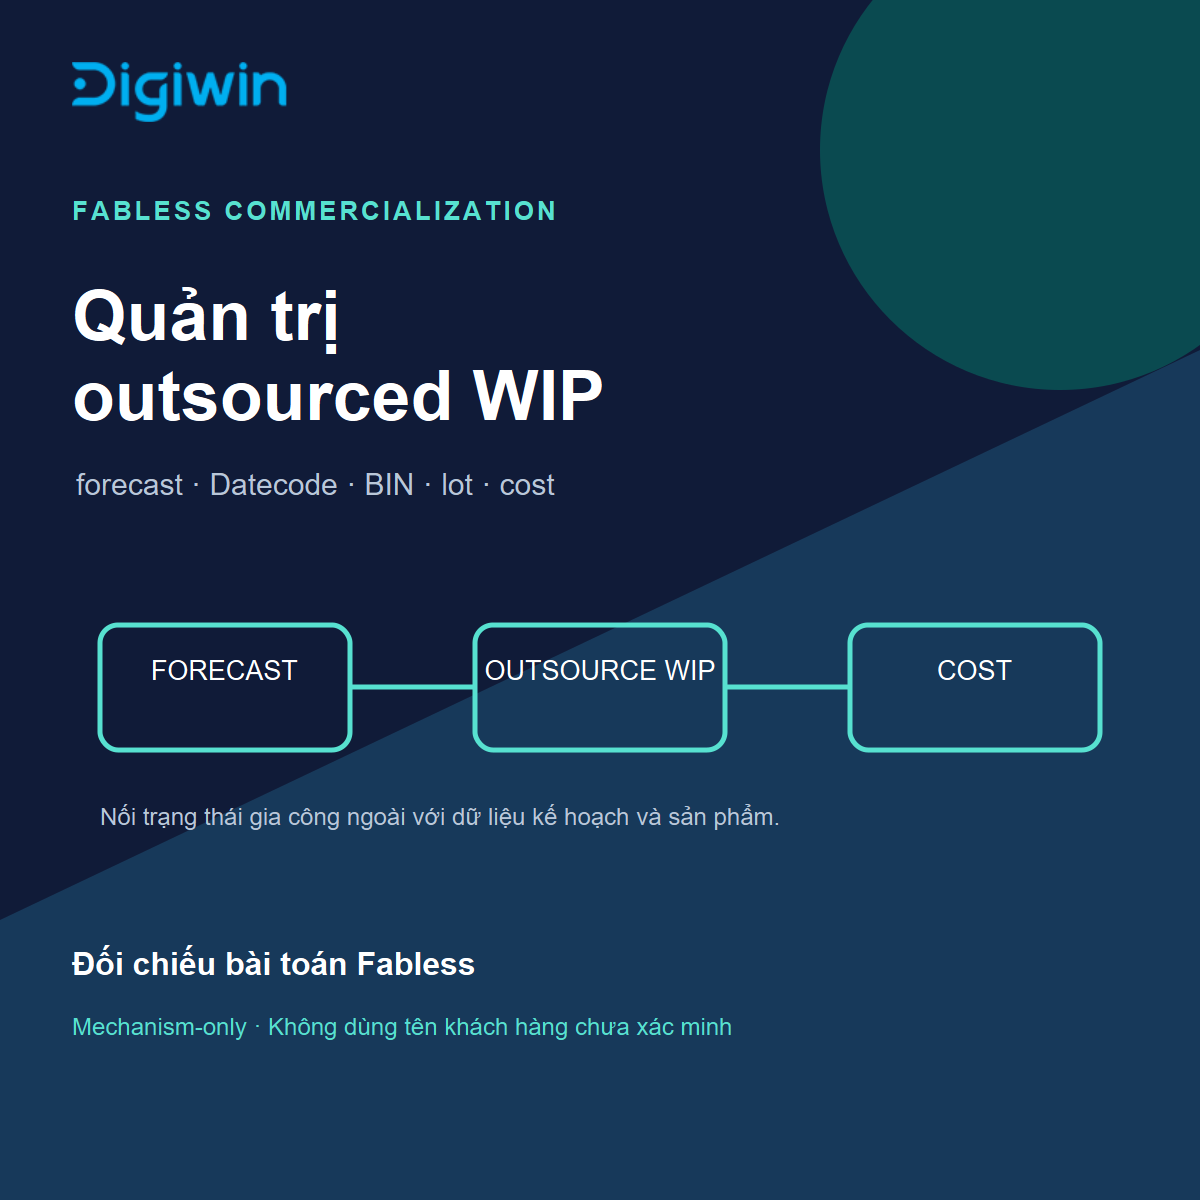
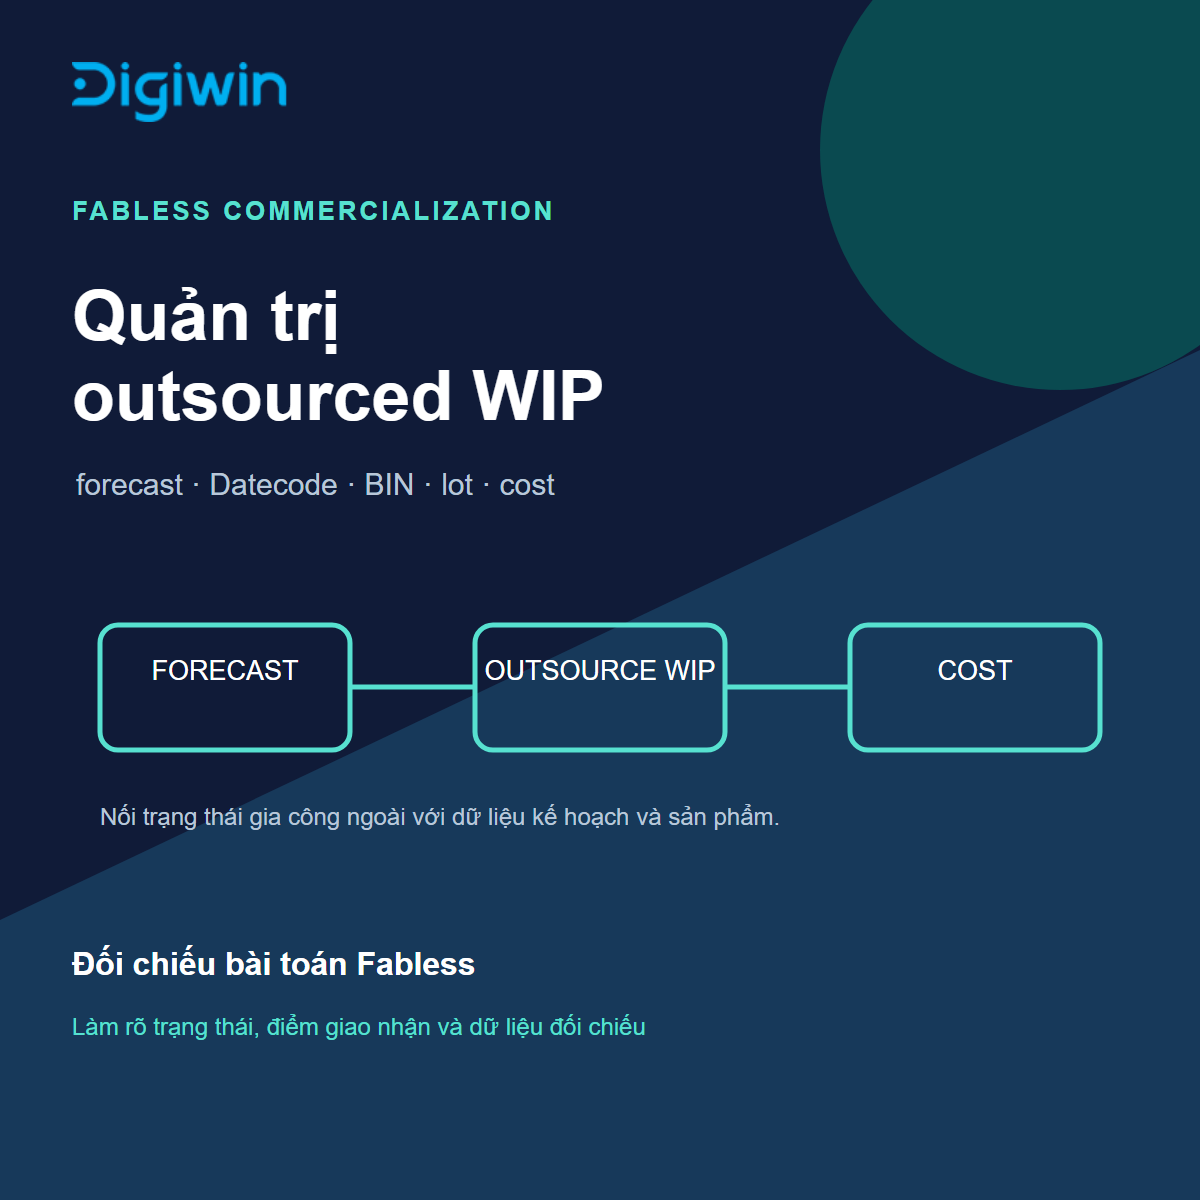
Replace internal LinkedIn creative footers

diff --git a/ads/linkedin/LinkedIn_Build_Pack.md b/ads/linkedin/LinkedIn_Build_Pack.md
@@ -28,7 +28,20 @@ No company/contact upload is allowed. Account-list targeting must remain separat
 
 ## Creative pack
 
-Three static concepts are provided under `assets/linkedin/source/` and rendered under `assets/linkedin/final/`, one per segment. The six-page OSAT document follows: cover; operating questions; mechanism map; traceability lens; operating review; contact-copy CTA. Copy is Vietnamese-first, mechanism-only, with no customer logo, number, case, outcome or unverified claim.
+Three static concepts are provided under `assets/linkedin/source/` and rendered under `assets/linkedin/final/`, one per segment. The six-page OSAT document follows: cover; operating questions; mechanism map; traceability lens; operating review; contact-copy CTA. The static concepts use customer-facing route copy and contain no customer name, number, case, outcome or unverified claim. Offline creative revision and PNG visual QA are recorded below; account/Page/placement/audience UI and live-object readiness remain pending.
+
+### Offline static-creative revision
+
+- Replaced internal production notes in all three footers with the approved customer-facing copy and updated each SVG description for accessibility.
+- Rendered the three source SVGs to 1200x1200 PNGs using local headless Chrome; inspected each full-resolution image against its SVG text for legibility, clipping, overlap and logo/aspect integrity. The OSAT caption was moved below its diagram connector for clear separation.
+
+| Creative | PNG dimensions | Bytes | SHA-256 |
+|---|---:|---:|---|
[3 lines of base64/hex data omitted]
+
+- This verifies offline creative assets only. It does not verify LinkedIn account/Page permissions, placements, audience availability, or any remote ad object; those remain pending the explicitly authorized UI review.
 
 ## Current blocker and validation plan
 
